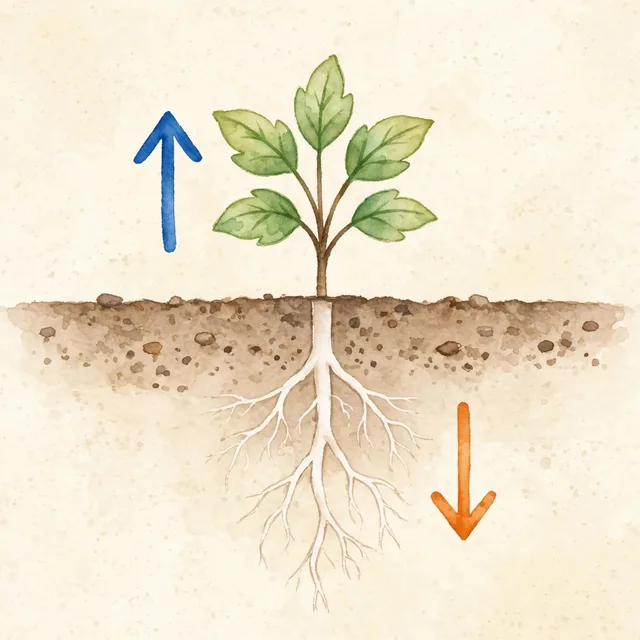
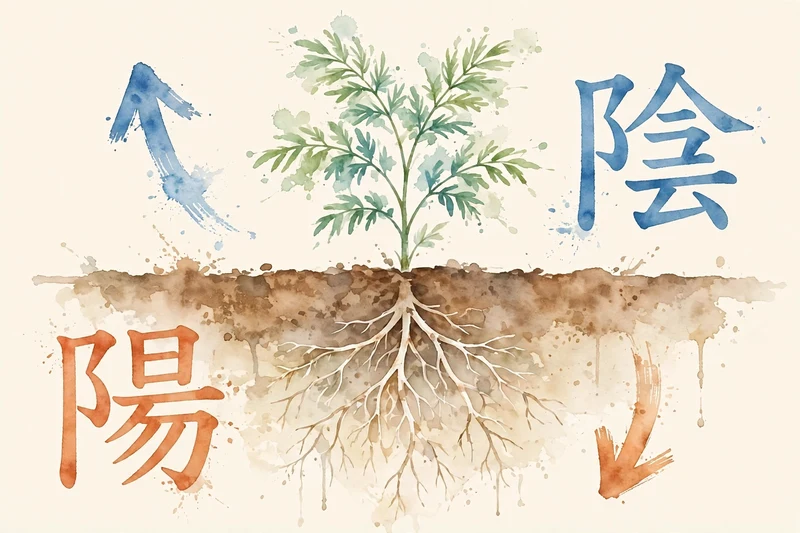
集まれ水女子の森｜水女子の共感・憩いの場を公開

diff --git a/inyo-quiz.html b/inyo-quiz.html
@@ -89,7 +89,7 @@
 
   <h2>基本の3つの見方</h2>
   <div class="wisdom">
-    <div class="wis"><img loading="lazy" src="quiz-icon-updown.webp" alt="葉が上へ、根が下へ伸びる植物と、上下の矢印" width="640" height="640"><b>① 上か下か</b>より下へ向かうものほど、陽寄り。地球の中心へ向かう力と見ているからです。</div>
+    <div class="wis"><img loading="lazy" src="quiz-icon-updown.webp" alt="葉が上へ伸びて陰、根が下へ伸びて陽と描かれた植物の断面と、上下の矢印" width="800" height="533"><b>① 上か下か</b>より下へ向かうものほど、陽寄り。地球の中心へ向かう力と見ているからです。</div>
     <div class="wis"><img loading="lazy" src="quiz-icon-shape.webp" alt="丸いかぼちゃと、細長いネギ" width="800" height="533"><b>② 形</b>より丸いものほど、陽寄り。</div>
     <div class="wis"><img loading="lazy" src="quiz-icon-density.webp" alt="ギュッと詰まった石の塊と、ふわっと広がる綿" width="800" height="533"><b>③ 密度</b>よりギュッと詰まっているものほど、陽寄り。</div>
   </div>
@@ -131,11 +131,11 @@ var FOOD = [
 {"tag":"物差しを変える・位置","q":"卵の黄身と殻。「位置」では、どっちが陽でしょう？","opts":[{"t":"黄身","img":"quiz-q6-kimi.webp","alt":"白身の真ん中にある黄身"},{"t":"殻","img":"quiz-q6-kara.webp","alt":"卵の殻"}],"ans":0,"soft":"殻と感じるのも、自然な見方ですね。","exp":"より真ん中にあるものほど、陽寄りの姿と見ます。位置では、黄身の方が陽寄りですね。"},
 {"tag":"物差しを変える・固さ","q":"同じ卵のまま、「固さ」では、どっちが陽でしょう？","opts":[{"t":"黄身","img":"quiz-q7-kimi.webp","alt":"やわらかくとろける黄身"},{"t":"殻","img":"quiz-q7-kara.webp","alt":"固い卵の殻のかけら"}],"ans":1,"soft":"黄身と感じるのも、自然な見方ですね。","exp":"よりギュッと固いのは殻です。固さでは殻の方が陽寄りで、さっきと答えが入れ替わりますね。"},
 {"tag":"理由で読む","q":"白米と玄米。どっちが陽でしょう？","opts":[{"t":"白米","img":"quiz-q8-hakumai.webp","alt":"白いごはん"},{"t":"玄米","img":"quiz-q8-genmai.webp","alt":"皮のついた玄米のごはん"}],"ans":1,"soft":"白米と感じるのも、自然な見方ですね。","exp":"硬い皮は、より陽寄りの部分です。その皮を除いた白米は、玄米より陰寄りになりますね。"},
-{"tag":"大きさの見方","q":"鶏肉と牛肉。「塊の大きさ」では、どっちが陽でしょう？","opts":[{"t":"鶏肉","img":"quiz-q9-tori.webp","alt":"大きなニワトリ"},{"t":"牛肉","img":"quiz-q9-ushi.webp","alt":"大きな牛"}],"ans":1,"soft":"鶏肉と感じるのも、自然な見方ですね。","exp":"より大きな塊になれるものほど、陽寄りと見ます。牛肉の方が陽寄りですね。ただし「大きいほど陽」は密度が同じくらいの時の話で、小さくてもギュッと密度が強ければ、陽寄りになることもありますね。"},
+{"tag":"大きさの見方","q":"鶏肉と牛肉。「塊の大きさ」では、どっちが陽でしょう？","opts":[{"t":"鶏肉","img":"quiz-q9-tori.webp","alt":"大きなニワトリ"},{"t":"牛肉","img":"quiz-q9-ushi.webp","alt":"大きな牛"}],"ans":1,"soft":"鶏肉と感じるのも、自然な見方ですね。","exp":"より大きな塊になれるものほど、陽寄りと見ます。牛肉の方が陽寄りですね。塊が大きいというのは、たくさん中心に集まれる力がある、ということです。ただし「大きいほど陽」は密度が同じくらいの時の話で、小さくてもギュッと密度が強ければ、陽寄りになることもありますね。"},
 {"tag":"体感で読む","q":"太陽と月。体感では、どっちが陽でしょう？","opts":[{"t":"太陽","img":"quiz-q10-sun.webp","alt":"温かい太陽"},{"t":"月","img":"quiz-q10-moon.webp","alt":"静かな夜の月"}],"ans":0,"soft":"月と感じるのも、自然な見方ですね。","exp":"熱が集まって温めてくれる太陽の方が陽寄り、涼しく落ち着く月は陰寄りですね。"}
 ];
 var BODY = [
-{"tag":"物差し「大きさ」","q":"「大きさ」では、どっちが陽でしょう？","opts":[{"t":"大きな体","img":"quiz-b1-fukuramu.webp","alt":"大きな体つきの人"},{"t":"小さな体","img":"quiz-b1-chijimaru.webp","alt":"小さな体つきの人"}],"ans":0,"soft":"小さな体と感じるのも、自然な見方ですね。","exp":"より体が大きく、ドンと塊が大きいものほど、陽寄りの姿です。牛肉と鶏肉の関係と同じ見方ですね。"},
+{"tag":"物差し「大きさ」","q":"「大きさ」では、どっちが陽でしょう？","opts":[{"t":"大きな体","img":"quiz-b1-fukuramu.webp","alt":"大きな体つきの人"},{"t":"小さな体","img":"quiz-b1-chijimaru.webp","alt":"小さな体つきの人"}],"ans":0,"soft":"小さな体と感じるのも、自然な見方ですね。","exp":"より体が大きく、ドンと塊が大きいものほど、陽寄りの姿です。牛肉と鶏肉の関係と同じ見方ですね。塊が大きいというのは、たくさん中心に集まれる力がある、ということです。"},
 {"tag":"物差し「固い・ゆるい」","q":"「固い・ゆるい」では、どっちが陽でしょう？","opts":[{"t":"固い体","img":"quiz-b2-katai.webp","alt":"カチカチに固い体の人"},{"t":"ゆるんだ体","img":"quiz-b2-yurui.webp","alt":"ふわっとゆるんだ体の人"}],"ans":0,"soft":"ゆるんだ体と感じるのも、自然な見方ですね。","exp":"よりギュッと固く引きしまったものほど、陽寄りの姿です。固い体の方が陽寄りですね。"},
 {"tag":"4つのタイプ","q":"水太りタイプと固太りタイプ。どっちが陽でしょう？","opts":[{"t":"水太りタイプ","img":"quiz-b3-mizubutori.webp","alt":"水分をふくんでふわっとした体つきの人"},{"t":"固太りタイプ","img":"quiz-b3-katabutori.webp","alt":"ギュッと固くしまった体つきの人"}],"ans":1,"soft":"水太りタイプと感じるのも、自然な見方ですね。","exp":"ギュッと固くしまった固太りタイプの方が陽寄り、水分をふくんでふわっとした水太りタイプの方が陰寄りと見ますね。"},
 {"tag":"物差し「上がる・下がる」","q":"「上がる・下がる」では、どっちが陽でしょう？","opts":[{"t":"上へ伸びる体","img":"quiz-b4-agaru.webp","alt":"上へ伸び上がる軽やかな体つきの人"},{"t":"どっしりした体","img":"quiz-b4-sagaru.webp","alt":"どっしり下に落ち着いた体つきの人"}],"ans":1,"soft":"上へ伸びる体と感じるのも、自然な見方ですね。","exp":"より下へ、地面の中心へ向かう力ほど、陽寄りの姿です。どっしりした体の方が陽寄りですね。"},
